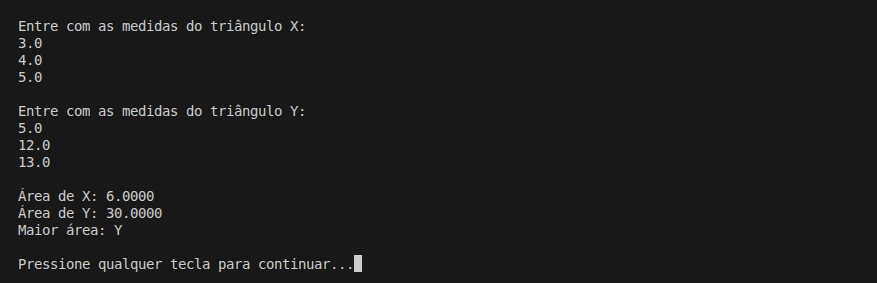
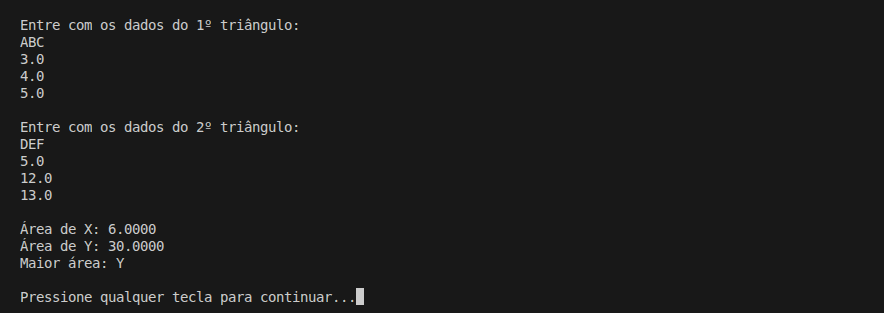
docs: adiciona descricao e screenshot da versao 0.2

diff --git a/Project/README.md b/Project/README.md
@@ -16,21 +16,25 @@ area = RaizQ(p * (p - S1) * (p - S2) * (p - S3))
 
 ## Detalhes Gerais
 
-- **Versão**: 0.1
-- **Conceito aplicado:** Solução Procedural
+- **Versão**: 0.2
+- **Conceito aplicado:** Classes e Métodos
 
 ## Descrição da Versão
 
 ```bash
 
-Primeira versao do projeto.
+Evolucao do modelo procedural para
+orientacao a objetos.
 
-Implementacao direta e totalmente procedural,
-sem uso de classes ou metodos.
+A classe Triangule passa a concentrar
+os atributos dos lados e o metodo
+de calculo da area utilizando a
+formula de Heron.
 
-O objetivo principal desta versao e estabelecer
-a base logica do problema antes da introducao
-de conceitos de orientacao a objetos.
+O programa principal agora instancia
+objetos e delega o calculo a classe,
+iniciando o processo de modelagem
+de entidades.
 
 ```
 
